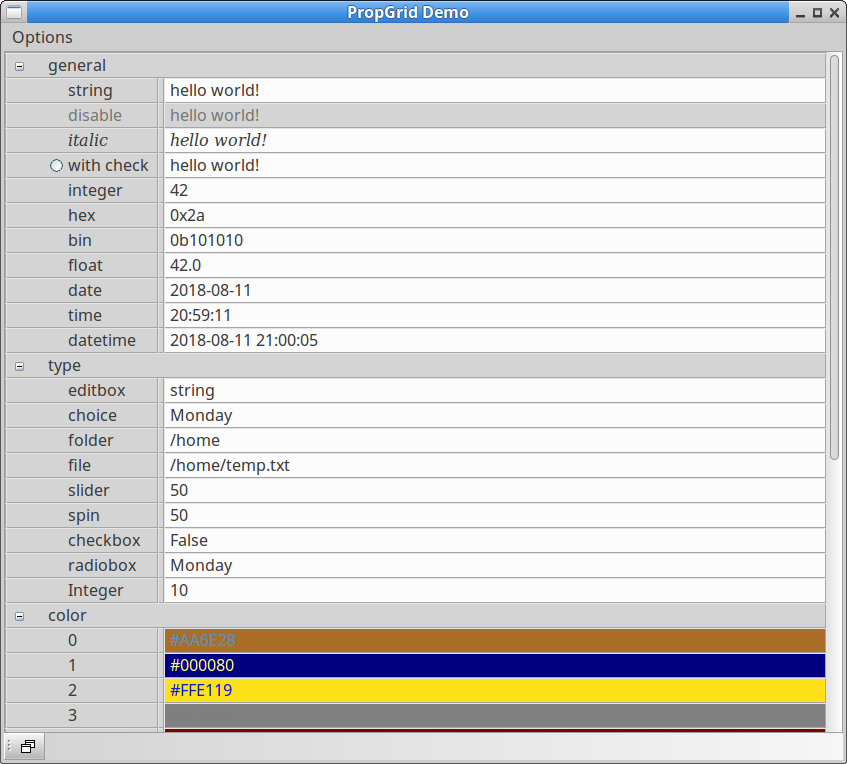
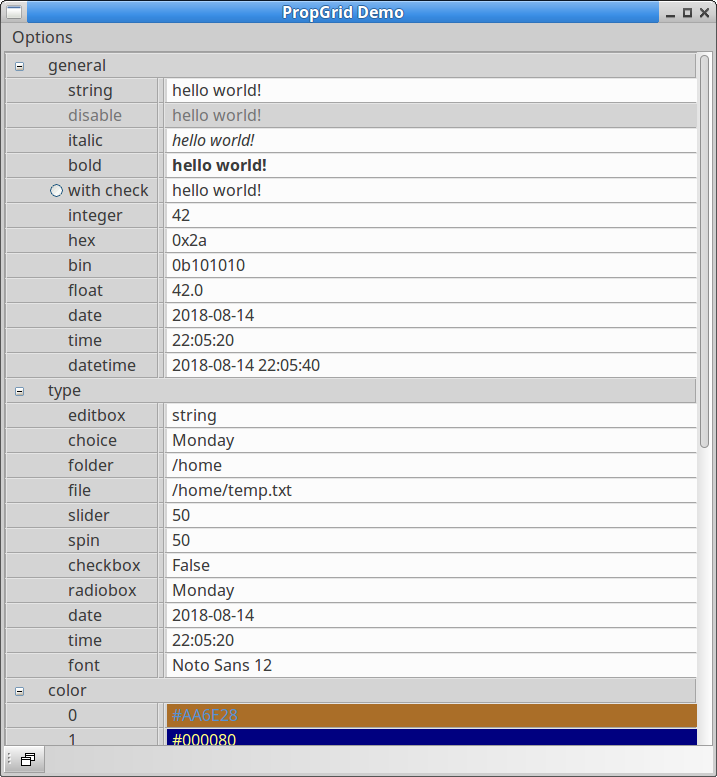
Support font control type.

diff --git a/prop.py b/prop.py
@@ -43,7 +43,7 @@ EVT_PROP_CLICK_CHECK = wx.PyEventBinder(wxEVT_PROP_CLICK_CHECK, 1)
 class Property(object):
     controls = EnumType('default', 'none', 'editbox', 'choice', 'file', 'folder',
                         'slider', 'spin', 'checkbox', 'radiobox', 'color', 'date',
-                        'time')
+                        'time', 'font')
     def __init__(self, grid, name, label, value):
         self.grid = grid
         self.name = name
@@ -57,7 +57,8 @@ class Property(object):
         self.checked = False
         self.activated = False
         self.enable = True
-        self.italic = False
+        self.font_label = None
+        self.font_value = None
         self.has_children = False
         self.expanded = True
         self.visible = True
@@ -95,7 +96,10 @@ class Property(object):
         p.checked = self.checked
         p.activated = self.activated
         p.enable = self.enable
-        p.italic = self.italic
+        if p.font_label:
+            self.font_label = wx.Font(p.font_label)
+        if p.font_value:
+            self.font_value = wx.Font(p.font_value)
         p.has_children = self.has_children
         p.expanded = self.expanded
         p.visible = self.visible
@@ -201,17 +205,15 @@ class Property(object):
             return self.label_tip
         return self.GetName()
 
-    def Italic(self, italic=True, silent=False):
-        """turn on/of the italic text"""
-        if self.italic == italic:
-            return
-        self.italic = italic
+    def SetLabelFont(self, font, silent=False):
+        """set label font"""
+        self.font_label = font
         if not silent:
             self.Refresh()
 
-    def IsItalic(self):
-        "return true if the italic is used for drawing"
-        return self.italic
+    def GetLabelFont(self):
+        """get label font"""
+        return self.font_label
 
     def SetVisible(self, visible=True, silent=False):
         """
@@ -298,6 +300,16 @@ class Property(object):
         if self.value_tip:
             return self.value_tip
         return self.GetValueAsString()
+
+    def SetValueFont(self, font, silent=False):
+        """set value font"""
+        self.font_value = font
+        if not silent:
+            self.Refresh()
+
+    def GetValueFont(self):
+        """get value font"""
+        return self.font_value
 
     def SetFormatter(self, formatter):
         if not formatter or not hasattr(formatter, 'validate') or\
@@ -589,6 +601,8 @@ class Property(object):
                     style = self.controls.folder
             elif isinstance(self.formatter, ColorFormatter):
                 style = self.controls.color
+            elif isinstance(self.formatter, FontFormatter):
+                style = self.controls.font
             elif isinstance(self.formatter, DateFormatter):
                 style = self.controls.date
                 if isinstance(self.formatter, TimeFormatter):
@@ -657,6 +671,13 @@ class Property(object):
                                       wx.CLRP_SHOW_LABEL)
             try:
                 win.SetColour(self.value)
+            except ValueError:
+                pass
+        elif style == self.controls.font:
+            win = wx.FontPickerCtrl(self.grid, wx.ID_ANY)
+            try:
+                if self.value:
+                    win.SetSelectedFont(self.value)
             except ValueError:
                 pass
 
@@ -773,6 +794,10 @@ class Property(object):
             clr = self.window.GetColour()
             value = clr.GetAsString(wx.C2S_HTML_SYNTAX)
 
+        elif isinstance(self.window, wx.FontPickerCtrl):
+            font = self.window.GetSelectedFont()
+            value = font.GetNativeFontInfoDesc()
+
         elif isinstance(self.window, wx.adv.DatePickerCtrl) or\
              isinstance(self.window, wx.adv.TimePickerCtrl):
             value = self.window.GetValue()
@@ -784,7 +809,7 @@ class Property(object):
                     value = self.formatter.coerce(str(value))
                 else:
                     return False
-            else:
+            elif self.value is not None:
                 value = type(self.value)(value)
             self.SetValue(value, silent=True)
         except ValueError:

diff --git a/propgrid.py b/propgrid.py
@@ -886,14 +886,17 @@ class PropSettings(wx.Dialog):
             self.items = (('name', 'Name', '', 'editbox'),
                           ('label', 'Label', '', 'editbox'),
                           ('indent', 'Indent level', '', 'spin'),
-                          ('italic', 'Italic', '', 'checkbox'))
+                          ('font_label', 'Label font', '', 'font'),
+                          ('font_value', 'Value font', '', 'font')
+                          )
         else:
             self.items = (('name', 'Name', '', 'editbox'),
                           ('label', 'Label', '', 'editbox'),
                           ('indent', 'Indent level', '', 'spin'),
                           ('show_check', 'Show check icon', '', 'checkbox'),
                           ('enable', 'Enable', '', 'checkbox'),
-                          ('italic', 'Italic', '', 'checkbox'),
+                          ('font_label', 'Label font', '', 'font'),
+                          ('font_value', 'Value font', '', 'font'),
                           ('readonly', 'Read only', '', 'checkbox'),
                           ('text_clr', 'Normal text color', '', 'color'),
                           ('text_clr_sel', 'Selected text color', '', 'color'),
@@ -921,6 +924,10 @@ class PropSettings(wx.Dialog):
                 t.SetRGB(t.GetRGB()^0xffffff)
                 t = t.GetAsString(wx.C2S_HTML_SYNTAX)
                 pp.SetTextColor(t, t, t)
+            elif ctrl == 'font':
+                pp.SetValueFont(v)
+                pp.SetValue(v)
+                pp.SetFormatter(FontFormatter())
             elif ctrl in ['spin', 'slider']:
                 pp.SetFormatter(IntFormatter(0, 100))
                 pp.SetValue(v)
@@ -969,6 +976,8 @@ class PropSettings(wx.Dialog):
             v = self.propgrid.GetProperty(name)
             if ctrl == 'check':
                 setattr(self.prop, name, bool(int(v.GetValue())))
+            if ctrl == 'font':
+                setattr(self.prop, name, v.GetValue())
             else:
                 setattr(self.prop, name, type(getattr(self.prop, name))(v.GetValue()))
         event.Skip()

diff --git a/propart.py b/propart.py
@@ -13,6 +13,24 @@ class PropArtNative(object):
         self.check_width = 16
         self.splitter_width = 8
         self.indent_width = 20
+        self._font_label = wx.SystemSettings.GetFont(wx.SYS_DEFAULT_GUI_FONT)
+        self._font_value = wx.SystemSettings.GetFont(wx.SYS_DEFAULT_GUI_FONT)
+
+    def SetValueFont(self, font):
+        """set label font"""
+        self._font_label = font
+
+    def GetLabelFont(self):
+        """get label font"""
+        return self._font_label
+
+    def SetValueFont(self, font):
+        """set value font"""
+        self._font_value = font
+
+    def GetValueFont(self):
+        """get value font"""
+        return self._font_value
 
     def PrepareDrawRect(self, p):
         """calculate the rect for each section"""
@@ -105,6 +123,12 @@ class PropArtNative(object):
 
     def DrawLabel(self, dc, p):
         # draw label
+        if p.font_label is None:
+            font = self._font_label
+        else:
+            font = wx.Font(p.font_label)
+        dc.SetFont(font)
+
         if not p.IsEnabled() or p.IsReadonly():
             clr = wx.SystemSettings.GetColour(wx.SYS_COLOUR_GRAYTEXT)
         else:
@@ -120,6 +144,12 @@ class PropArtNative(object):
 
     def DrawValue(self, dc, p):
         # draw value
+        if p.font_value is None:
+            font = self._font_value
+        else:
+            font = wx.Font(p.font_value)
+        dc.SetFont(font)
+
         p.show_value_tips = False
         if p.window is None:
             crbg = p.bg_clr
@@ -196,10 +226,6 @@ class PropArtNative(object):
         dc.DrawLine(rc.left+1, rc.top, rc.left+1, rc.bottom)
         dc.DrawLine(rc.right, rc.top, rc.right, rc.bottom)
 
-        if p.IsItalic():
-            dc.SetFont(wx.ITALIC_FONT)
-        else:
-            dc.SetFont(wx.NORMAL_FONT)
 
 
         self.DrawExpansion(dc, p)

diff --git a/demo.py b/demo.py
@@ -51,7 +51,11 @@ class MainFrame(wx.Frame):
 
         p = g.InsertProperty('italic', 'italic', 'hello world!')
         p.SetIndent(1)
-        p.Italic()
+        p.SetValueFont(wx.Font(wx.NORMAL_FONT).Italic())
+
+        p = g.InsertProperty('bold', 'bold', 'hello world!')
+        p.SetIndent(1)
+        p.SetValueFont(wx.Font(wx.NORMAL_FONT).Bold())
 
         p = g.InsertProperty('with check', 'with check', 'hello world!')
         p.SetIndent(1)
@@ -136,6 +140,10 @@ class MainFrame(wx.Frame):
         p.SetIndent(1)
         p.SetFormatter(fmt.TimeFormatter())
 
+        p = g.InsertProperty('font', 'font', wx.NORMAL_FONT)
+        p.SetIndent(1)
+        p.SetFormatter(fmt.FontFormatter())
+
         # color
         self.clr_map = np.array([[170., 110.,  40., 255.],
                                [  0.,  0., 128., 255.],
@@ -212,7 +220,8 @@ class MainFrame(wx.Frame):
                 t.SetRGB(t.GetRGB()^0xFFFFFF)
                 t = t.GetAsString(wx.C2S_HTML_SYNTAX)
                 p.SetTextColor(t, t, t)
-
+        if 'font' in p.GetName():
+            p.SetValueFont(p.GetValue())
     def OnTimer(self, event):
         p = self.propgrid.GetProperty('datetime')
         if p:

diff --git a/formatters.py b/formatters.py
@@ -569,6 +569,23 @@ class ColorFormatter(Formatter):
         except:
             return ""
 
+class FontFormatter(Formatter):
+    # Storage formate: wx.Font
+    def validate(self, str_value):
+        font = wx.Font(str_value)
+        return font.IsOk()
+
+    def format(self, value):
+        if isinstance(value, six.string_types):
+            return value
+        elif isinstance(value, wx.Font):
+            return value.GetNativeFontInfoDesc()
+        return ""
+
+    def coerce(self, str_value):
+        font = wx.Font(str_value)
+        return font
+
 if __name__ == '__main__':
 
     from .enumtype import EnumType
